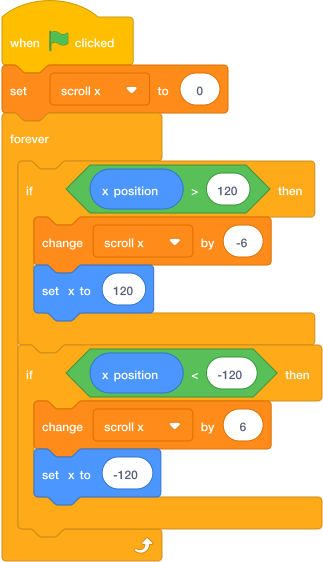
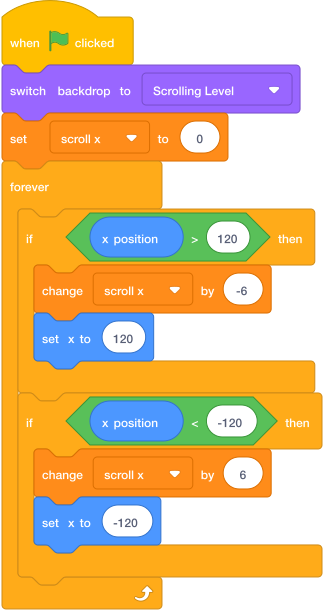
commit

diff --git a/docs/tasks/28-level-up-screen-move.md b/docs/tasks/28-level-up-screen-move.md
@@ -12,7 +12,17 @@ Instead, the `Player` stays near the middle of the screen, and the level sprites
 
 ## Before You Start
 
-For this Level Up, the platforms must be sprites.
+Make a new scene for this Level Up.
+
+1. Click the **Stage** thumbnail.
+2. Click **Backdrops**.
+3. Click **Choose a Backdrop**.
+4. Click **Paint**.
+5. Rename the new backdrop `Scrolling Level`.
+6. Draw the sky and background.
+7. Do not draw platforms on this backdrop.
+
+For this Level Up, the platforms must be sprites so they can move.
 
 1. Click **Choose a Sprite**.
 2. Click **Paint**.
@@ -24,7 +34,7 @@ For this Level Up, the platforms must be sprites.
 8. Right-click `Platform 2`.
 9. Click **duplicate**.
 10. Rename the copy `Platform 3`.
-11. Put the three platforms across the level.
+11. Put the three platforms across the new scene.
 
 ## Do This
 
@@ -33,7 +43,8 @@ For this Level Up, the platforms must be sprites.
 3. Name the variable `scroll x`.
 4. Click **OK**.
 5. In the sprite list below the Stage, click the `Player` sprite. (If you cannot remember where the sprite list is, go back to [Start Here: Where To Click Sprites](../index.md#where-to-click-sprites).)
-6. Build this code.
+6. Add `switch backdrop to Scrolling Level` under the green flag block.
+7. Build the rest of this code.
 
 ![Scratch blocks for making the screen scroll sideways](../assets/scratchblocks/scroll-camera.png){ .scratch-image }
 
